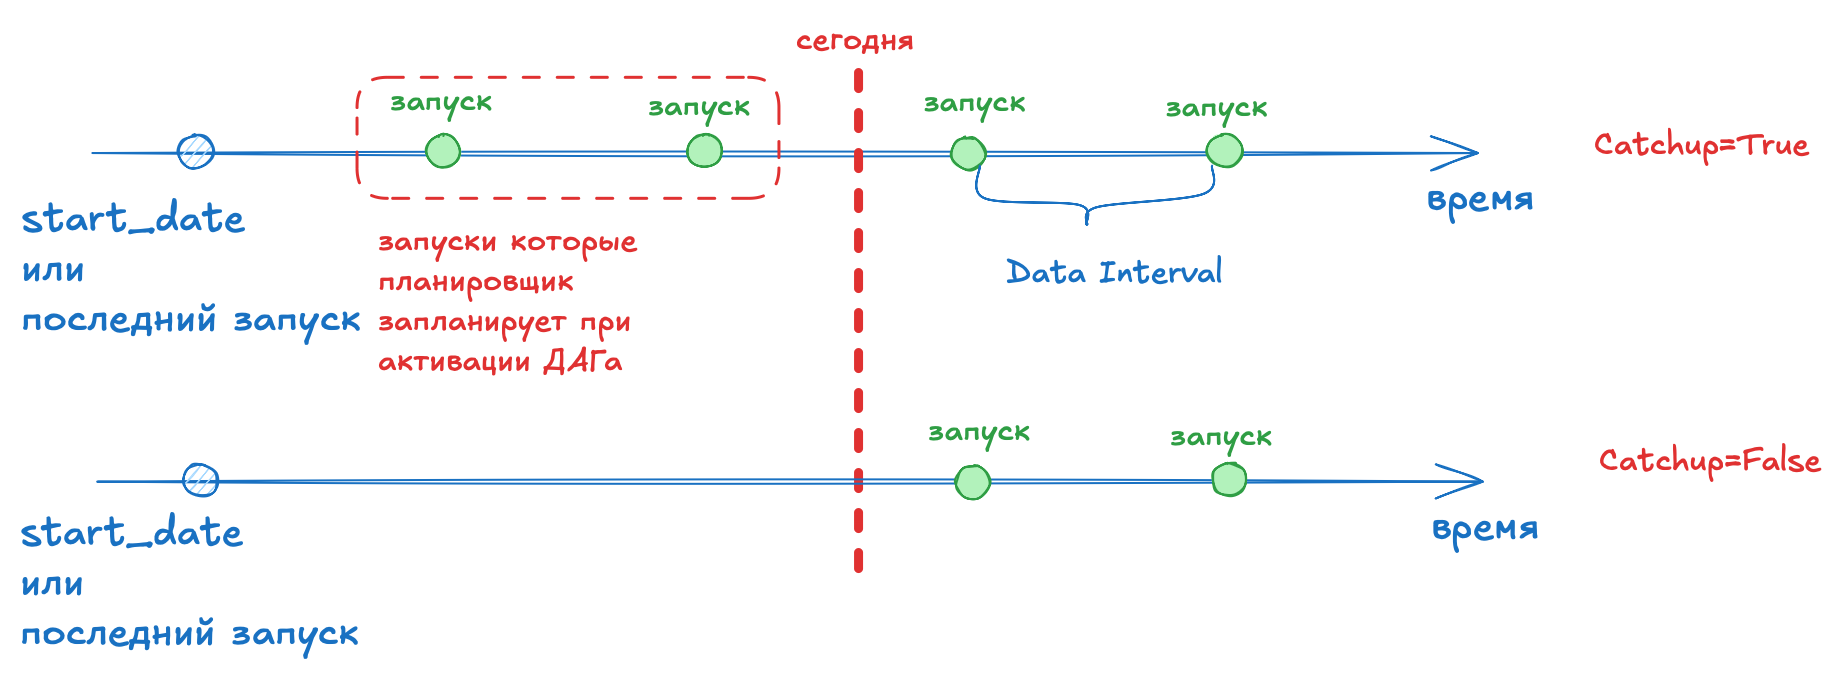
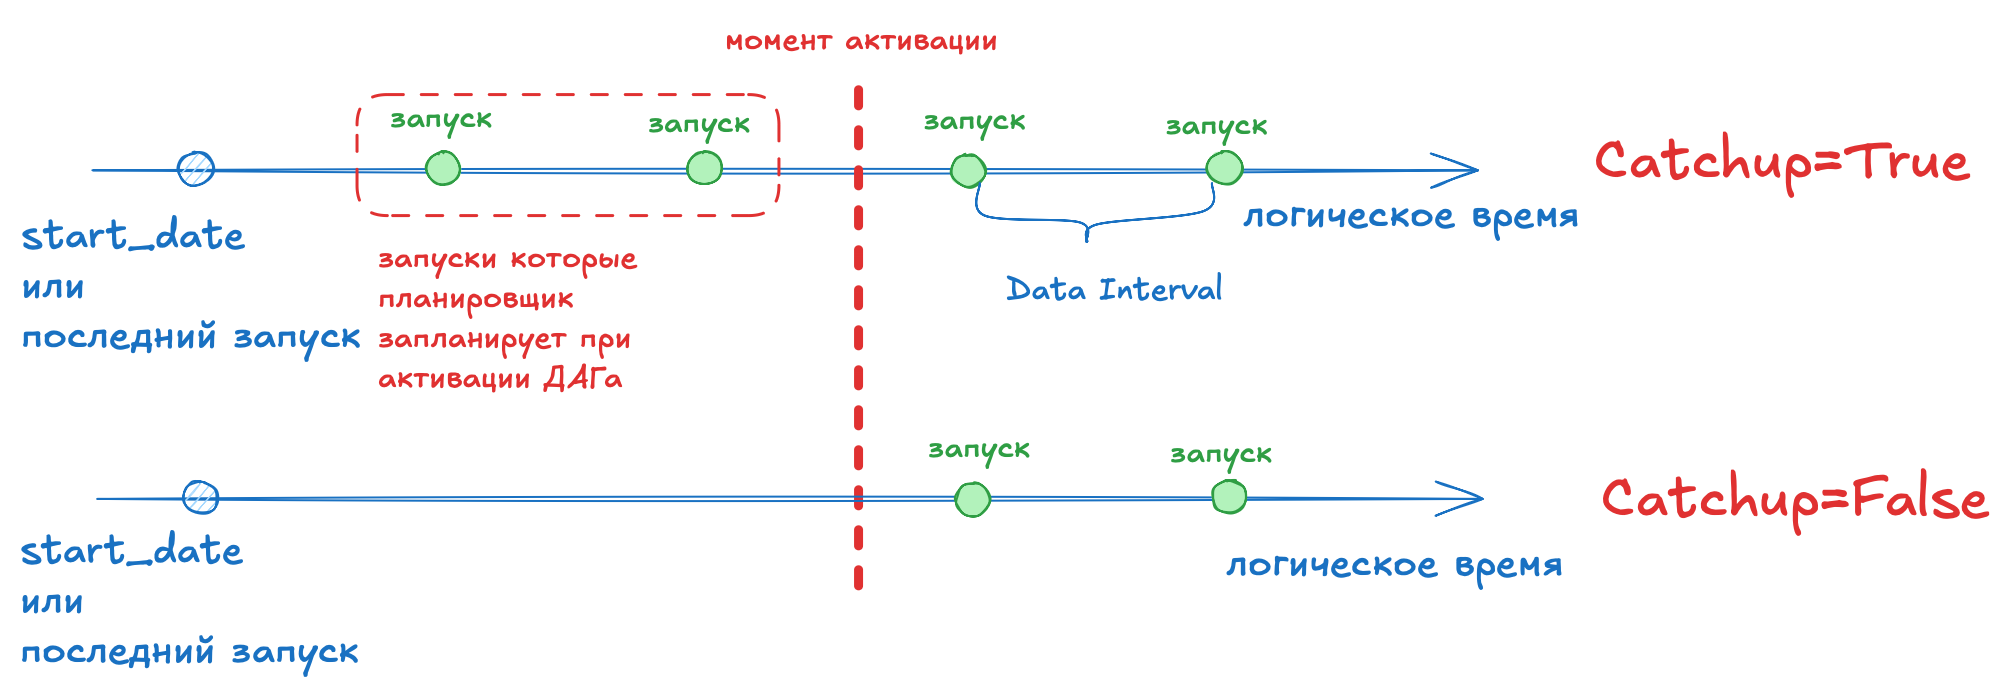
Update

diff --git a/apache_airflow/4.Schedule and api.md b/apache_airflow/4.Schedule and api.md
@@ -6,15 +6,22 @@
 ## Основные концепции расписания Airflow
 
 - **Data Interval** - интервал данных это период с которым должна работать каждая задача. Например для ДАГа который запускается ежечастно, каждый интервал будет начинаться в начала часа (0 минут) и заканчиваться в конце часа (59 минут)  
+- **Logical Date** - логическая дата (и время) запуска ДАГа, совпадает с началом интервала данных. Это дата не отражает время когда ДАГ фактически был запущен. (до версии 2.2. называлась **Execution Date** и путало пользователей так как к execution то есть исполнение эта дата не имеет отношение)  
 ![alt text](./pictures/data_interval.png)
 
-- **Logical Date** - логическая дата запуска ДАГа, совпадает с началом интервала данных. Это дата не отражает время когда ДАГ фактически был запущен. (до версии 2.2. называлась **Execution Date**)
+Стоит обратить внимание что при использовании TimeTable логика получения темплейтов измениться  
+**Schedule interval:**  
+![alt text](./pictures/schedule_interval_templates.png)
+
+**Timetable:**  
+![alt text](./pictures/timetable_templates.png)
+
 - **Timeteble или Schedule Interval** - свойство которое определяет интервал данных и логическую дату для каждого ДАГа
 - **DAG Start Date** - стартовая дата от которой планировщик начинает планировать расписание
 - **DAG End Date** - дата когда планировщик прекратит планировать расписание
 - **Catchup** - концепция, в соответсвии с которой планировщик запланирует выполнение ДАГов для всех пропущенных интервалов данных от **предыдущего запуска** или от Start Date до текущей даты.  
 ![alt text](./pictures/сatchup.png)
 - **Backfilling** - возможность запустить несколько ДАГ за определенный исторический период
-- **Next Run в UI** - поле в UI отображающее **Logical Date** для следующего запланированного запуска ДАГа (**но не время фактического запуска**)
+- **Next Run в UI** - поле в UI отображающее **Logical Date** (если огрубить то это время послежнего запуска) для следующего запланированного запуска ДАГа (**но не время фактического запуска**)
 
-04:00
+38:00
